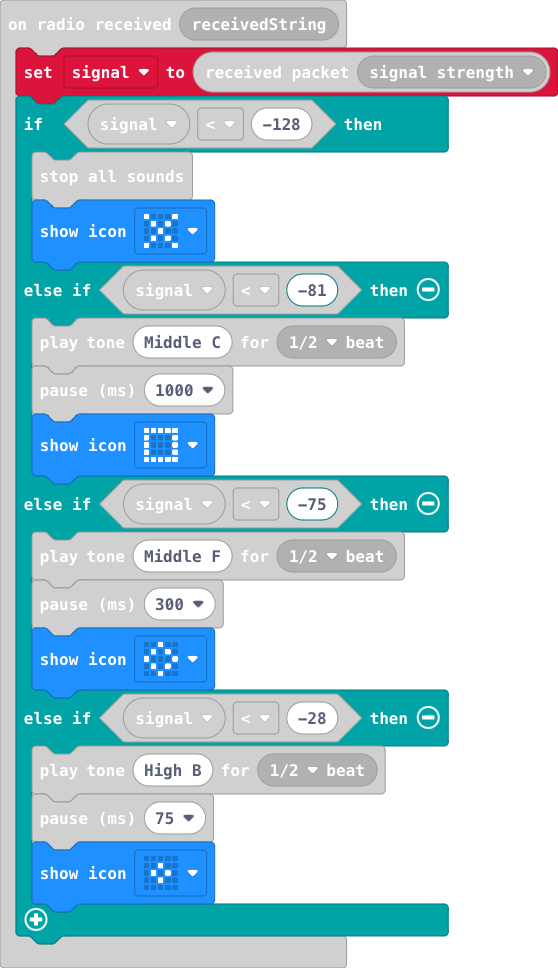
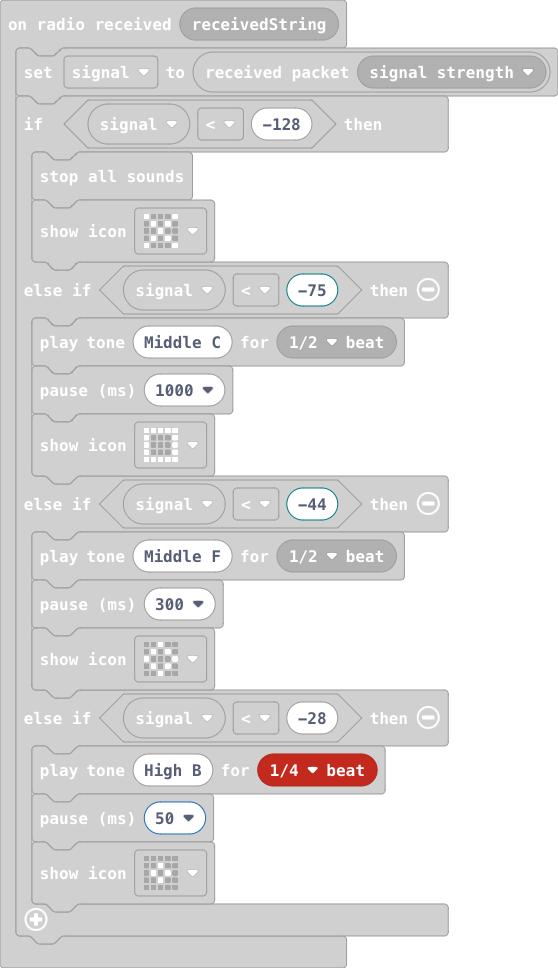
Update main.blocks, main.ts

Changed region(s): [[0.0, 0.031, 1.0, 0.9917]]

diff --git a/main.ts b/main.ts
@@ -3,17 +3,17 @@ radio.onReceivedString(function (receivedString) {
     if (signal < -128) {
         music.stopAllSounds()
         basic.showIcon(IconNames.No)
-    } else if (signal < -81) {
+    } else if (signal < -75) {
         music.playTone(262, music.beat(BeatFraction.Half))
         basic.pause(1000)
         basic.showIcon(IconNames.Square)
-    } else if (signal < -75) {
+    } else if (signal < -44) {
         music.playTone(349, music.beat(BeatFraction.Half))
         basic.pause(300)
         basic.showIcon(IconNames.Diamond)
     } else if (signal < -28) {
-        music.playTone(988, music.beat(BeatFraction.Half))
-        basic.pause(75)
+        music.playTone(988, music.beat(BeatFraction.Quarter))
+        basic.pause(50)
         basic.showIcon(IconNames.SmallDiamond)
     }
 })
